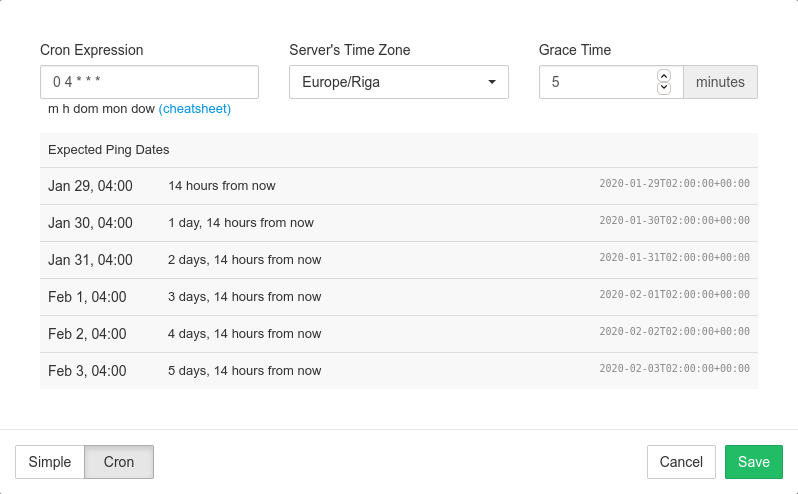
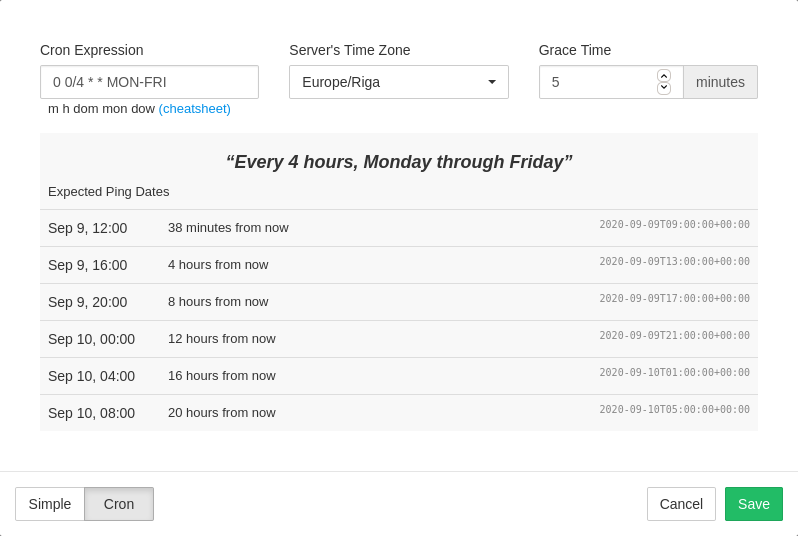
Grammar and style fixes, updated illustration.

diff --git a/templates/docs/configuring_checks.html b/templates/docs/configuring_checks.html
@@ -3,65 +3,67 @@
 monitor. For example, when monitoring cron jobs, you would create a separate check for
 each cron job to be monitored. SITE_NAME pricing plans are structured primarily
 around how many checks you can have in your account. You can create checks
-either in SITE_NAME web interface or by calling <a href="../api/">API</a>.</p>
+either in SITE_NAME web interface or by calling <a href="../api/">Management API</a>.</p>
 <h2>Name, Tags, Description</h2>
-<p>Describe each check using optional name, tags and description fields.</p>
+<p>Describe each check using an optional name, tags, and description fields.</p>
 <p><img alt="Editing name, tags and description" src="IMG_URL/edit_name.png" /></p>
 <ul>
 <li><strong>Name</strong>: names are optional, but it is a good idea to set them.
 Good naming becomes especially important as you add more checks in the
-account. Names are displayed in the web interface, in email reports and in the
-notifications that SITE_NAME sends out.</li>
+account. SITE_NAME will display check names in the web interface, in email reports,
+and in notifications.</li>
 <li><strong>Tags</strong>: a space-separated list of optional labels. Use tags to organize and group
-checks within a project. You can tag checks by environment
-(<code>prod</code>, <code>staging</code>, <code>dev</code>, ...) or by role (<code>www</code>, <code>db</code>, <code>worker</code>, ...) or using
+checks within a project. You can tag checks by the environment
+(<code>prod</code>, <code>staging</code>, <code>dev</code>, etc.) or by role (<code>www</code>, <code>db</code>, <code>worker</code>, etc.) or using
 any other system.</li>
 <li><strong>Description</strong>: a free-form text field with any related information for your team
-or for your future self: what is being monitored, who set it up,
-what to do in case of failures, where to look for additional information.</li>
+or your future self. Describe the cron job's role, who set it up, what to do in
+case of failures, where to look for additional information.</li>
 </ul>
 <h2>Simple Schedules</h2>
-<p>SITE_NAME supports two types of schedules: "simple" and "cron". Use "Simple" schedules
-for monitoring processes that are expected to run at relatively regular time
+<p>SITE_NAME supports two types of schedules: <strong>Simple</strong> and <strong>Cron</strong>. Use Simple
+schedules for monitoring processes that you expect to run at relatively regular time
 intervals: once an hour, once a day, once a week.</p>
 <p><img alt="Editing the period and grace time" src="IMG_URL/edit_simple_schedule.png" /></p>
-<p>For simple schedules you configure two time durations, Period and Grace Time.</p>
+<p>For the simple schedules, you can configure two parameters, Period and Grace Time.</p>
 <ul>
-<li><strong>Period</strong>: the expected time between pings</li>
-<li><strong>Grace Time</strong>: when a check is late, how long to wait before sending an alert.
-Use this variable to account for small, expected deviations in job execution times.</li>
+<li><strong>Period</strong> is the expected time between pings.</li>
+<li><strong>Grace Time</strong> is the additional time to wait before sending an alert when a check
+is late. Use this parameter to account for small, expected deviations in job
+execution times.</li>
 </ul>
 <h2>Cron Schedules</h2>
-<p>Use "cron" for monitoring processes with more complex schedules, and to ensure
-jobs run <strong>at the correct time</strong> (not just at correct time intervals).</p>
+<p>Use "cron" for monitoring processes with more complex schedules. This monitoring mode
+ensures that jobs run <strong>at the correct time</strong>, and not just at correct time intervals.</p>
 <p><img alt="Editing cron schedule" src="IMG_URL/edit_cron_schedule.png" /></p>
-<p>You will need to specify Cron Expression, Server's Time Zone and Grace Time.</p>
+<p>You will need to specify Cron Expression, Server's Time Zone, and Grace Time.</p>
 <ul>
-<li><strong>Cron Expression</strong>: enter the same expression you've used in the crontab.</li>
-<li><strong>Server's Time Zone</strong>: cron daemon typically uses the local time of the machine it is
-running on. If the machine is not using UTC timezone, you need to tell SITE_NAME
-what timezone to use.</li>
-<li><strong>Grace Time</strong>: same as for simple schedules, how long to wait before sending an alert
-for a late check.</li>
+<li><strong>Cron Expression</strong> is the cron expression you specified in the crontab.</li>
+<li><strong>Server's Time Zone</strong> is the timezone of your server. The cron daemon typically uses
+system's local time. If the machine is not using the UTC timezone, you need to
+specify it here.</li>
+<li><strong>Grace Time</strong>, same as for simple schedules, is how long to wait before sending an
+alert for a late check.</li>
 </ul>
 <h2>Filtering Rules</h2>
-<p>In the "Filtering Rules" dialog you can control several advanced aspects of
+<p>In the "Filtering Rules" dialog, you can control several advanced aspects of
 how SITE_NAME handles incoming pings for a particular check.</p>
 <p><img alt="Setting filtering rules" src="IMG_URL/filtering_rules.png" /></p>
 <ul>
 <li><strong>Allowed request methods for HTTP requests</strong>. You can require the ping
 requests to use HTTP POST. Use the "Only POST" option if you run into issues of
 preview bots hitting the ping URLs when you send them in email or post them in chat.</li>
-<li><strong>Filter by keywords in the Subject line</strong>. When pinging via <a href="../email/">email</a>,
+<li><strong>Filter by keywords in the Subject line</strong>. When pinging <a href="../email/">via email</a>,
 look for specific keywords in the subject line. If the subject line contains any of
 the keywords listed in <strong>Success Keywords</strong>, SITE_NAME will assume it to be a success
 signal. Likewise, if it contains any of the keywords listed in <strong>Failure Keywords</strong>,
 SITE_NAME will treat it as an explicit failure signal.
-This is useful, for example, if your backup software sends an email after each backup
+For example, this is useful if your backup software sends an email after each backup
 run with a different subject line depending on success or failure.</li>
-<li><strong>Pinging a Paused Check</strong>. When you ping a paused check, normally it leaves
-the paused state and goes into the "up" or "down" state (depending on the type of
-the ping). This changes if you select the "Ignore the ping, stay in the paused state"
-option: the paused state becomes "sticky". SITE_NAME will ignore all incoming pings
-until you explicitly <em>resume</em> the check.</li>
+<li><strong>Pinging a Paused Check</strong>. Normally, when you ping a paused check, it leaves the
+paused state and goes into the "up" state (or the "down" state
+in case of <a href="../signalling_failures/">a failure signal</a>).
+You can change this behavior by selecting the "Ignore the ping, stay in
+the paused state" option. With this option selected, the paused state becomes "sticky":
+SITE_NAME will ignore all incoming pings until you explicitly <em>resume</em> the check.</li>
 </ul>

diff --git a/templates/docs/introduction.html b/templates/docs/introduction.html
@@ -1,12 +1,13 @@
 <h1>SITE_NAME Documentation</h1>
 <p>SITE_NAME is a service for monitoring cron jobs and similar periodic processes:</p>
 <ul>
-<li>SITE_NAME <strong>listens for HTTP requests ("pings")</strong> from services being monitored.</li>
+<li>SITE_NAME <strong>listens for HTTP requests ("pings")</strong> from your cron jobs and scheduled
+  tasks.</li>
 <li>It <strong>keeps silent</strong> as long as pings arrive on time.</li>
 <li>It <strong>raises an alert</strong> as soon as a ping does not arrive on time.</li>
 </ul>
 <p>SITE_NAME works as a <a href="https://en.wikipedia.org/wiki/Dead_man%27s_switch">dead man's switch</a> for processes that need to
-run continuously or on regular, known schedule. For example:</p>
+run continuously or on a regular, known schedule. For example:</p>
 <ul>
 <li>filesystem backups, database backups</li>
 <li>task queues</li>

diff --git a/templates/docs/configuring_checks.md b/templates/docs/configuring_checks.md
@@ -4,59 +4,60 @@ In SITE_NAME, a **Check** represents a single service you want to
 monitor. For example, when monitoring cron jobs, you would create a separate check for
 each cron job to be monitored. SITE_NAME pricing plans are structured primarily
 around how many checks you can have in your account. You can create checks
-either in SITE_NAME web interface or by calling [API](../api/).
+either in SITE_NAME web interface or by calling [Management API](../api/).
 
 ## Name, Tags, Description
 
-Describe each check using optional name, tags and description fields.
+Describe each check using an optional name, tags, and description fields.
 
 ![Editing name, tags and description](IMG_URL/edit_name.png)
 
 * **Name**: names are optional, but it is a good idea to set them.
 Good naming becomes especially important as you add more checks in the
-account. Names are displayed in the web interface, in email reports and in the
-notifications that SITE_NAME sends out.
+account. SITE_NAME will display check names in the web interface, in email reports,
+and in notifications.
 * **Tags**: a space-separated list of optional labels. Use tags to organize and group
-checks within a project. You can tag checks by environment
-(`prod`, `staging`, `dev`, ...) or by role (`www`, `db`, `worker`, ...) or using
+checks within a project. You can tag checks by the environment
+(`prod`, `staging`, `dev`, etc.) or by role (`www`, `db`, `worker`, etc.) or using
 any other system.
 * **Description**: a free-form text field with any related information for your team
-or for your future self: what is being monitored, who set it up,
-what to do in case of failures, where to look for additional information.
+or your future self. Describe the cron job's role, who set it up, what to do in
+case of failures, where to look for additional information.
 
 ## Simple Schedules
 
-SITE_NAME supports two types of schedules: "simple" and "cron". Use "Simple" schedules
-for monitoring processes that are expected to run at relatively regular time
+SITE_NAME supports two types of schedules: **Simple** and **Cron**. Use Simple
+schedules for monitoring processes that you expect to run at relatively regular time
 intervals: once an hour, once a day, once a week.
 
 ![Editing the period and grace time](IMG_URL/edit_simple_schedule.png)
 
-For simple schedules you configure two time durations, Period and Grace Time.
+For the simple schedules, you can configure two parameters, Period and Grace Time.
 
-* **Period**: the expected time between pings
-* **Grace Time**: when a check is late, how long to wait before sending an alert.
-Use this variable to account for small, expected deviations in job execution times.
+* **Period** is the expected time between pings.
+* **Grace Time** is the additional time to wait before sending an alert when a check
+is late. Use this parameter to account for small, expected deviations in job
+execution times.
 
 ## Cron Schedules
 
-Use "cron" for monitoring processes with more complex schedules, and to ensure
-jobs run **at the correct time** (not just at correct time intervals).
+Use "cron" for monitoring processes with more complex schedules. This monitoring mode
+ensures that jobs run **at the correct time**, and not just at correct time intervals.
 
 ![Editing cron schedule](IMG_URL/edit_cron_schedule.png)
 
-You will need to specify Cron Expression, Server's Time Zone and Grace Time.
+You will need to specify Cron Expression, Server's Time Zone, and Grace Time.
 
-* **Cron Expression**: enter the same expression you've used in the crontab.
-* **Server's Time Zone**: cron daemon typically uses the local time of the machine it is
-running on. If the machine is not using UTC timezone, you need to tell SITE_NAME
-what timezone to use.
-* **Grace Time**: same as for simple schedules, how long to wait before sending an alert
-for a late check.
+* **Cron Expression** is the cron expression you specified in the crontab.
+* **Server's Time Zone** is the timezone of your server. The cron daemon typically uses
+system's local time. If the machine is not using the UTC timezone, you need to
+specify it here.
+* **Grace Time**, same as for simple schedules, is how long to wait before sending an
+alert for a late check.
 
 ## Filtering Rules
 
-In the "Filtering Rules" dialog you can control several advanced aspects of
+In the "Filtering Rules" dialog, you can control several advanced aspects of
 how SITE_NAME handles incoming pings for a particular check.
 
 ![Setting filtering rules](IMG_URL/filtering_rules.png)
@@ -64,15 +65,16 @@ how SITE_NAME handles incoming pings for a particular check.
 * **Allowed request methods for HTTP requests**. You can require the ping
 requests to use HTTP POST. Use the "Only POST" option if you run into issues of
 preview bots hitting the ping URLs when you send them in email or post them in chat.
-* **Filter by keywords in the Subject line**. When pinging via [email](../email/),
+* **Filter by keywords in the Subject line**. When pinging [via email](../email/),
 look for specific keywords in the subject line. If the subject line contains any of
 the keywords listed in **Success Keywords**, SITE_NAME will assume it to be a success
 signal. Likewise, if it contains any of the keywords listed in **Failure Keywords**,
 SITE_NAME will treat it as an explicit failure signal.
-This is useful, for example, if your backup software sends an email after each backup
+For example, this is useful if your backup software sends an email after each backup
 run with a different subject line depending on success or failure.
-* **Pinging a Paused Check**. When you ping a paused check, normally it leaves
-the paused state and goes into the "up" or "down" state (depending on the type of
-the ping). This changes if you select the "Ignore the ping, stay in the paused state"
-option: the paused state becomes "sticky". SITE_NAME will ignore all incoming pings
-until you explicitly *resume* the check.
+* **Pinging a Paused Check**. Normally, when you ping a paused check, it leaves the
+paused state and goes into the "up" state (or the "down" state
+in case of [a failure signal](../signalling_failures/)).
+You can change this behavior by selecting the "Ignore the ping, stay in
+the paused state" option. With this option selected, the paused state becomes "sticky":
+SITE_NAME will ignore all incoming pings until you explicitly *resume* the check.

diff --git a/templates/docs/introduction.md b/templates/docs/introduction.md
@@ -2,12 +2,13 @@
 
 SITE_NAME is a service for monitoring cron jobs and similar periodic processes:
 
-* SITE_NAME **listens for HTTP requests ("pings")** from services being monitored.
+* SITE_NAME **listens for HTTP requests ("pings")** from your cron jobs and scheduled
+  tasks.
 * It **keeps silent** as long as pings arrive on time.
 * It **raises an alert** as soon as a ping does not arrive on time.
 
 SITE_NAME works as a [dead man's switch](https://en.wikipedia.org/wiki/Dead_man%27s_switch) for processes that need to
-run continuously or on regular, known schedule. For example:
+run continuously or on a regular, known schedule. For example:
 
 * filesystem backups, database backups
 * task queues
